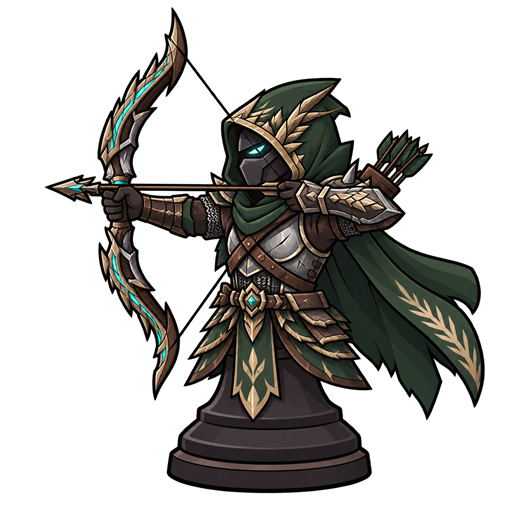
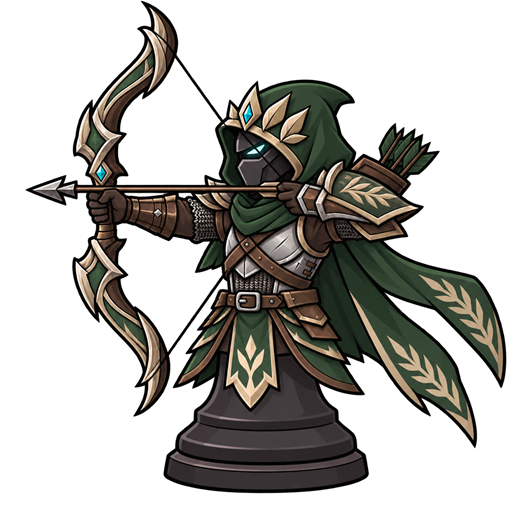
fix(units): refine evolved unit board presentation
ปรับภาพ Ranger ร่างสามและทำให้ภาพยูนิตบนกระดานขยายตามขนาดแท่นหิน พร้อมยกตำแหน่งเท้าให้อยู่กลางวงเวทอย่างสม่ำเสมอในทุกขนาดหน้าจอ

Changed region(s): [[0.0312, 0.0, 1.0, 0.9688], [0.6875, 0.8438, 0.75, 0.9375], [0.6875, 0.5, 0.7188, 0.5312]]

diff --git a/mobile/lib/core/widgets/unit_avatar.dart b/mobile/lib/core/widgets/unit_avatar.dart
@@ -324,6 +324,7 @@ class UnitAvatar extends StatelessWidget {
           ? (landscapeShop ? landscapeShopContent() : portraitShopContent())
           : Stack(
               fit: StackFit.expand,
+              clipBehavior: Clip.none,
               children: [
                 Padding(
                   // The board/bench/replay frame is a perfect square
@@ -342,12 +343,38 @@ class UnitAvatar extends StatelessWidget {
                     AppSpacing.xxs,
                     AppSpacing.xxs,
                   ),
-                  child: _UnitArt(
-                    kind: kind,
-                    fusionTier: star,
-                    tint: tint,
-                    size: _width,
-                  ),
+                  child: isBoardPiece && expand
+                      ? LayoutBuilder(
+                          builder: (context, constraints) {
+                            final responsiveSize =
+                                constraints.biggest.shortestSide;
+                            return Transform.translate(
+                              // Lift only the illustration so the piece's
+                              // foot sits near the centre of the magic ring;
+                              // stars and HP remain anchored to the slot.
+                              offset: Offset(0, -responsiveSize * 0.12),
+                              child: Transform.scale(
+                                // Board and replay slots grow with the stone
+                                // platform. Scaling from the feet makes the
+                                // extra size rise into the available headroom.
+                                scale: 1.24,
+                                alignment: Alignment.bottomCenter,
+                                child: _UnitArt(
+                                  kind: kind,
+                                  fusionTier: star,
+                                  tint: tint,
+                                  size: responsiveSize,
+                                ),
+                              ),
+                            );
+                          },
+                        )
+                      : _UnitArt(
+                          kind: kind,
+                          fusionTier: star,
+                          tint: tint,
+                          size: _width,
+                        ),
                 ),
                 Positioned(
                   left: AppSpacing.xxs,

diff --git a/mobile/test/core/widgets/unit_avatar_test.dart b/mobile/test/core/widgets/unit_avatar_test.dart
@@ -5,6 +5,29 @@ import 'package:flutter_test/flutter_test.dart';
 import '../../widgets/_harness.dart';
 
 void main() {
+  testWidgets('expanded board art scales with the stone slot', (tester) async {
+    await pumpThemed(
+      tester,
+      const SizedBox.square(
+        dimension: 140,
+        child: UnitAvatar(
+          unitId: 'fighter',
+          star: 0,
+          expand: true,
+        ),
+      ),
+    );
+
+    final image = tester.widget<Image>(
+      find.descendant(
+        of: find.byType(UnitAvatar),
+        matching: find.byType(Image),
+      ),
+    );
+    expect(image.width, greaterThan(64));
+    expect(image.height, greaterThan(64));
+  });
+
   testWidgets(
       'board avatar gives the illustration more headroom than the other '
       'edges — the source art has almost none of its own', (tester) async {
